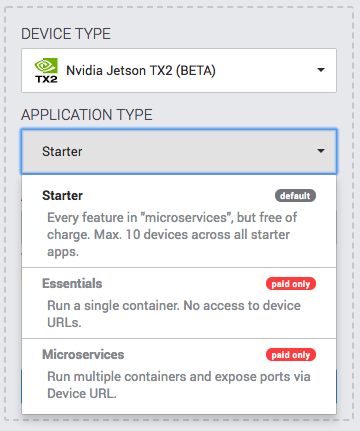
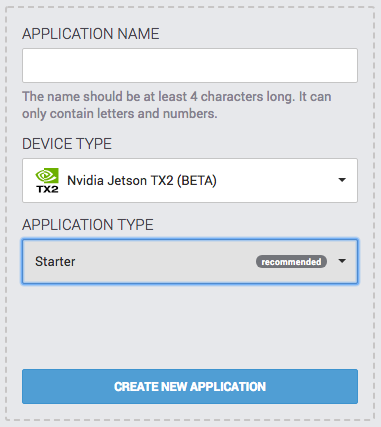
Add getting started for Jetson TX1
New getting started guide for the TX1. Also update the flashing instructions to include the step of preparing with the latest version of JetPack.

Change-type: patch

diff --git a/shared/createAnApp/jetson-tx1.md b/shared/createAnApp/jetson-tx1.md
@@ -1,0 +1,11 @@
+An application is a group of devices of the same type that all run the same code. When you provision a device, it is added to a specific application, but can be migrated to another application at any time.
+
+To create an application, select the **{{ $device.name }}** device type, select an [application type][app-types], enter a name, and click *Create new application*:
+
+<img src="/img/jetson-tx1/app-type.png" width="40%">
+
+__Note:__ To create an application with multiple containers, you'll want to use the starter or microservices application type. The starter applications are full-featured and free for all users, with a limit of up to ten total devices across all starter applications.
+
+This will take you to the dashboard for your newly created application, where you can manage your whole fleet of **{{ $device.name }}s**.
+
+[app-types]:/learn/manage/app-types

diff --git a/shared/createAnApp/jetson-tx2.md b/shared/createAnApp/jetson-tx2.md
@@ -1,0 +1,11 @@
+An application is a group of devices of the same type that all run the same code. When you provision a device, it is added to a specific application, but can be migrated to another application at any time.
+
+To create an application, select the **{{ $device.name }}** device type, select an [application type][app-types], enter a name, and click *Create new application*:
+
+<img src="/img/jetson-tx2/app-type.png" width="40%">
+
+__Note:__ To create an application with multiple containers, you'll want to use the starter or microservices application type. The starter applications are full-featured and free for all users, with a limit of up to ten total devices across all starter applications.
+
+This will take you to the dashboard for your newly created application, where you can manage your whole fleet of **{{ $device.name }}s**.
+
+[app-types]:/learn/manage/app-types

diff --git a/shared/deployingCode/nodejs.md b/shared/deployingCode/nodejs.md
@@ -10,6 +10,8 @@ To clone the project, run the following command in a terminal or your preferred 
 $ git clone https://github.com/resin-io-projects/simple-server-node.git
 ```
 
+__Note:__ This project runs an application in a single container. If you would like to start with a [multicontainer project][multi-project], run `git clone git@github.com:resin-io-projects/multicontainer-getting-started.git`.
+
 Once the repo is cloned, change directory into the newly created `simple-server-node` directory and add the resin git remote endpoint by running the command `git remote add` shown in
 the top-right corner of your application page:
 

diff --git a/shared/whatYouNeed/jetson-tx1.md b/shared/whatYouNeed/jetson-tx1.md
@@ -1,0 +1,11 @@
+<img height=150px style="float: right;padding-left: 10px;" src="/img/jetson-tx1/jetson-tx1.jpg">
+
+* An [Nvidia Jetson TX1][tx1], along with the baseboard that allows flashing from an SD card. 
+* A 4GB or larger microSD card. The [speed class][sdSpeed] of the card also matters - class 10 card or above is the way to go.
+* An ethernet cable.
+* Compatible power supply.
+* A [resin.io account][link-to-signup].
+
+[tx1]:https://developer.nvidia.com/embedded/buy/jetson-tx1
+[sdSpeed]:https://en.wikipedia.org/wiki/Secure_Digital#Speed_class_rating
+[link-to-signup]:dashboard.resin.io/signup
